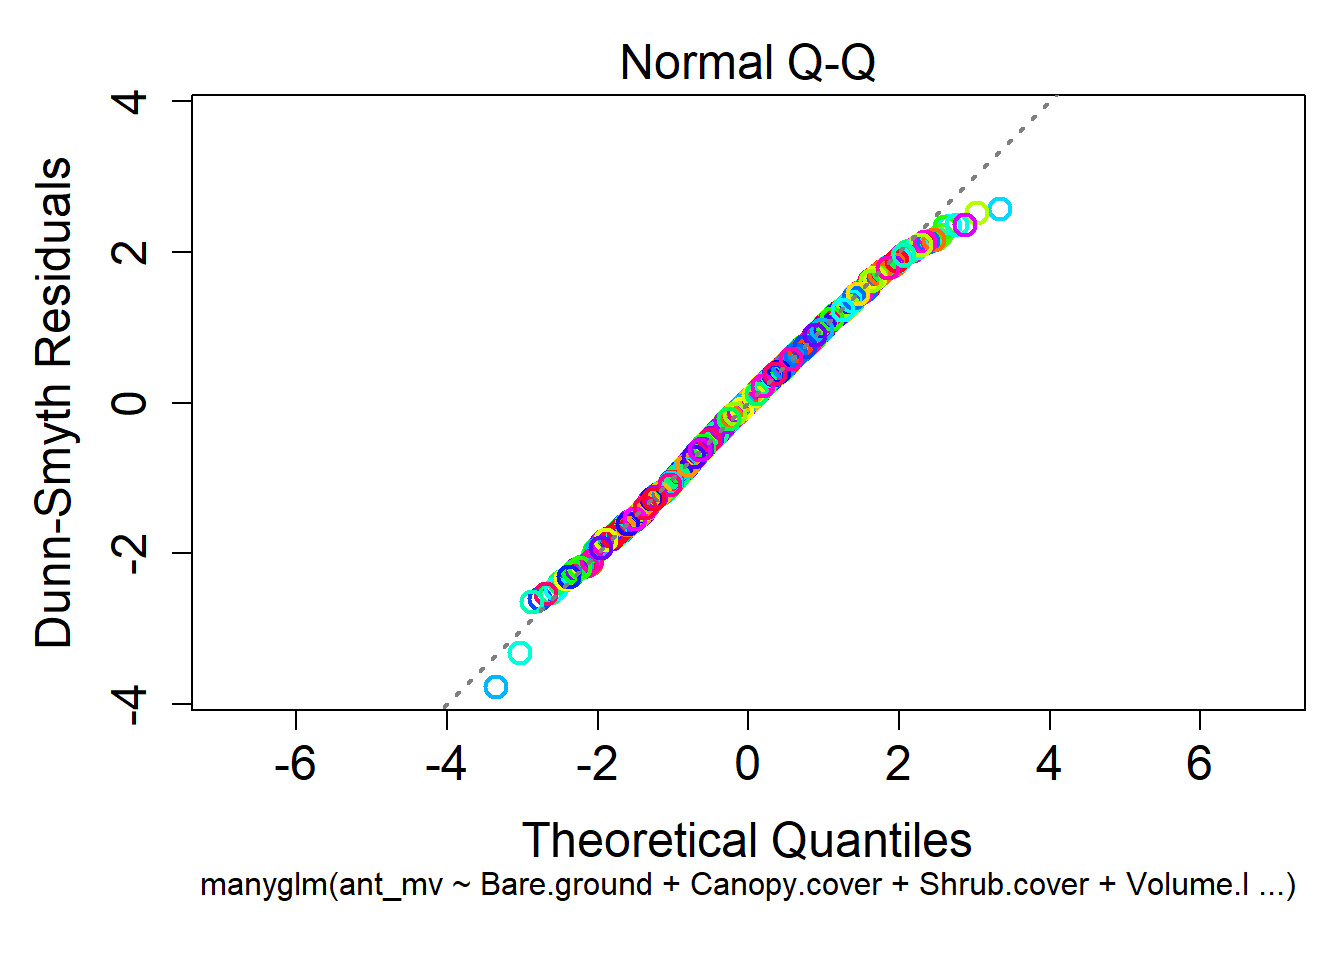
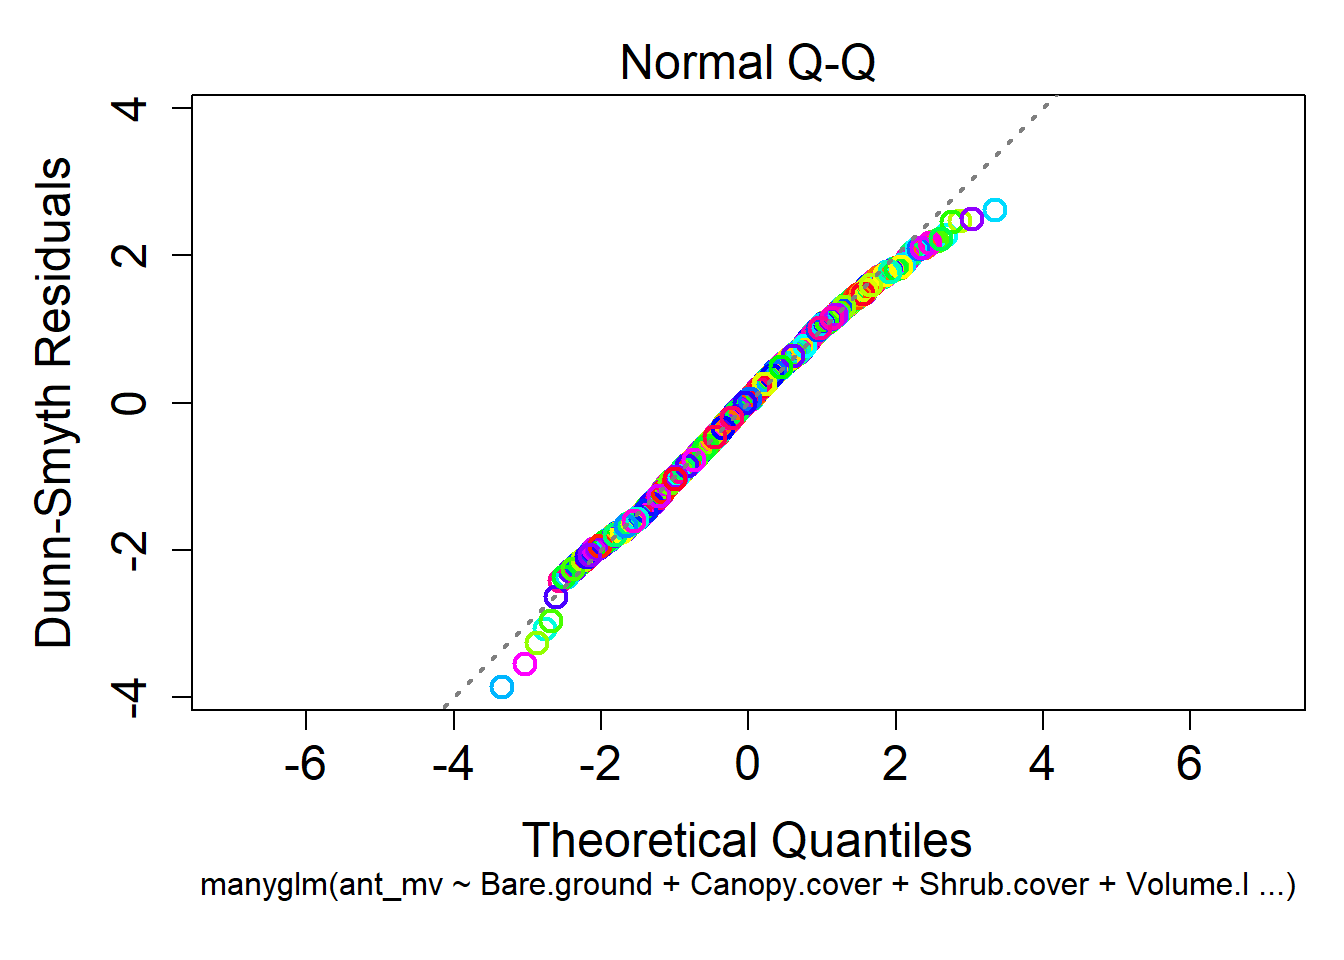
mvabund ants

diff --git a/content/post/2020-12-08-analyzing-the-anttraits-data-with-mvabund/index.html b/content/post/2020-12-08-analyzing-the-anttraits-data-with-mvabund/index.html
@@ -90,15 +90,15 @@ As we are not interested in response correlations we assume that the variance-co
 <p><img src="index_files/figure-html/unnamed-chunk-9-2.png" width="672" /></p>
 <pre class="r"><code>plot(mod_nb, which = 3)</code></pre>
 <p><img src="index_files/figure-html/unnamed-chunk-9-3.png" width="672" /></p>
-<p>Both, the fan-shape and the deviation from the 1:1 line in the Q-Q plot are gone.
-This means that the negative-binomial models fits the data better and will be used for the rest if this analysis.
-In the upper right corner of the Q-Q plot the observed values actually fall below the 1:1 line now which means that the residuals are underdispersed.
+<p>The fan-shape in the first plot is gone.
+In the upper right corner of the Q-Q plot the observed values now fall below the 1:1 line which means that the residuals are underdispersed.
 Possibly this is because that data are rather zero-inflated and not overdispersed.
-Indeed, a zero-inflated-Poisson gllvm model fit the data better than a negative binomial one. In <em><span style="color:CornflowerBlue">mvabund</span></em> we currently cannot fit such models, so we will move ahead with the negative binomial one.</p>
+Indeed, a zero-inflated-Poisson gllvm model fit the data better than a negative binomial one, in that <a href="https://jonjup.netlify.app/post/2020-12-31-analyzing-the-anttraits-data-with-gllvm/analyzing-the-anttraits-data-with-gllvm/">analysis</a>.
+In <em><span style="color:CornflowerBlue">mvabund</span></em>, we currently cannot fit such models, so we will move ahead with the negative binomial one.</p>
 </div>
 <div id="model-results" class="section level1">
 <h1>Model results</h1>
-<p>Now we can compute the statistical significance of our predictors for the every individual species and the community as whole with the <code>anova()</code> function.</p>
+<p>Now we can compute the statistical significance of our predictors for every individual species and the community as whole with the <code>anova()</code> function.</p>
 <pre class="r"><code>mod_nb_anova = anova.manyglm(
         object = mod_nb,
         p.uni = &quot;adjusted&quot;,
@@ -117,9 +117,9 @@ Indeed, a zero-inflated-Poisson gllvm model fit the data better than a negative 
 <p>The first column contains the variable names, the second the Residual degrees of freedom (<em><span style="color:CornflowerBlue">Res.Df</span></em>).
 Note how the fact that later variables are added to the previous model is made explicit by showing the decreasing residual degrees of freedom.
 The difference in Degrees of Freedom (<em><span style="color:CornflowerBlue">Df.diff</span></em>) shows how many degrees of freedom are necessary to add this variable.
-The test statistic (here the deviance or likelihood ratio) and lastly the pseudo <em>p</em>-value.</p>
-<p>We can see that only the canopy cover has a statistically significant influence on the community composition.</p>
-<p>As we have more than 40 species a table is a bad way to inspect the species-level results. Instead we can plot the <em>p</em>-values of each variable for each species.
+The test statistic (here the deviance or likelihood ratio) is next and last is the pseudo <em>p</em>-value.
+Only the canopy cover has a statistically significant influence on the community composition.</p>
+<p>As we have more than 40 species a table is a bad way to inspect the species-level results. Instead, we can plot the <em>p</em>-values of each variable for each species.
 This will require some reshaping of our data but can be achieved in a few lines of code.
 You can right-click the plots to open them in a new tab, where they will be larger.</p>
 <pre class="r"><code># uni.p holds the univariate p-values. The first row is 
@@ -164,7 +164,7 @@ plot.tas = levelplot(
 print(plot.tas)</code></pre>
 <p><img src="index_files/figure-html/unnamed-chunk-14-1.png" width="672" />
 The problem with this plot is, that it is scaled relative the actually occurring values and one value (Volume.lying.CWD for <em>Cardiocondyla nuda atalanta</em>) is strongly negative.
-To avoid this we can either use an absolute scale, base the relative scale on another static, remove the species or the variable.
+To avoid this we can either use an absolute scale, base the relative scale on another statistic, remove the species or the variable.
 Below, we use the third quantile instead of the maximum coefficient value to scale the coloring.</p>
 <pre class="r"><code>a        = quantile(abs(coef(mod_nb)), .75)
 colort   = colorRampPalette(c(&quot;blue&quot;, &quot;white&quot;, &quot;red&quot;))
@@ -178,7 +178,7 @@ plot.tas = levelplot(
 )
 print(plot.tas)</code></pre>
 <p><img src="index_files/figure-html/unnamed-chunk-15-1.png" width="672" /></p>
-<p>Such plots are of limited use to identify exact coefficient values but especially when there are many species or covariables they can be very handy to identify groups or general trends.</p>
+<p>Such plots are of limited use to identify exact coefficient values but especially when there are many species or co variables they can be very handy to identify groups or general trends.</p>
 <p>Lastly, we can have a look at the relationship between traits and variables.</p>
 <pre class="r"><code>trait_model1 = traitglm(
   antTraits$abund,

diff --git a/content/post/2020-10-26-species-distribution-model-with-hmsc/index.html b/content/post/2020-10-26-species-distribution-model-with-hmsc/index.html
@@ -39,7 +39,7 @@ p_load(abind,
        magrittr,
        stringr)</code></pre>
 <p>You can download the data we use <a href="https://www.helsinki.fi/sites/default/files/atoms/files/section_11_1_birds_2020_05_31.zip">here</a>.</p>
-<p>We use the Finnish bird data that are often used by the creators of HMSC to demonstrate the method (e.g. Chapter 5 of <span class="citation">Ovaskainen and Abrego (2020)</span> and <span class="citation">Tikhonov et al. (2020)</span>). We will this analysis on the abundance and occurence <em>C. monedula</em> in the year 2014.</p>
+<p>We use the Finnish bird data that are often used by the creators of HMSC to demonstrate the method (e.g. Chapter 5 of <span class="citation">Ovaskainen and Abrego (2020)</span> or <span class="citation">Tikhonov et al. (2020)</span>). We will this analysis on the abundance and occurence <em>C. monedula</em> in the year 2014.</p>
 <pre class="r"><code># data.directory needs to be a string, pointing 
 # to where your data is
 data = fread(file.path(data.directory, &quot;data.csv&quot;))
@@ -101,7 +101,7 @@ We should be able to see this with the effective sample size.</p>
 <p>When you fit such models you should start with a low thin (like 5) to estimate run time and to get an idea about the general direction of the results.
 Even though the estimate will change when you increase the thinning, you are often able to start writing your result section while the larger models are still running.
 Simply plug in the estimates from the final model once its done.
-You should increase the thinning until the model fit is satisfactory (high effective sampling size, low potential scale reduction factor, converged and stable chains)</p>
+You should increase the thinning until the model fit is satisfactory (high effective sampling size, low potential scale reduction factor, converged and stable chains).</p>
 <pre class="r"><code>nChains = 2
 thin = c(5, 10, 100)
 nParallel = max(round(parallel::detectCores() / 2), 
